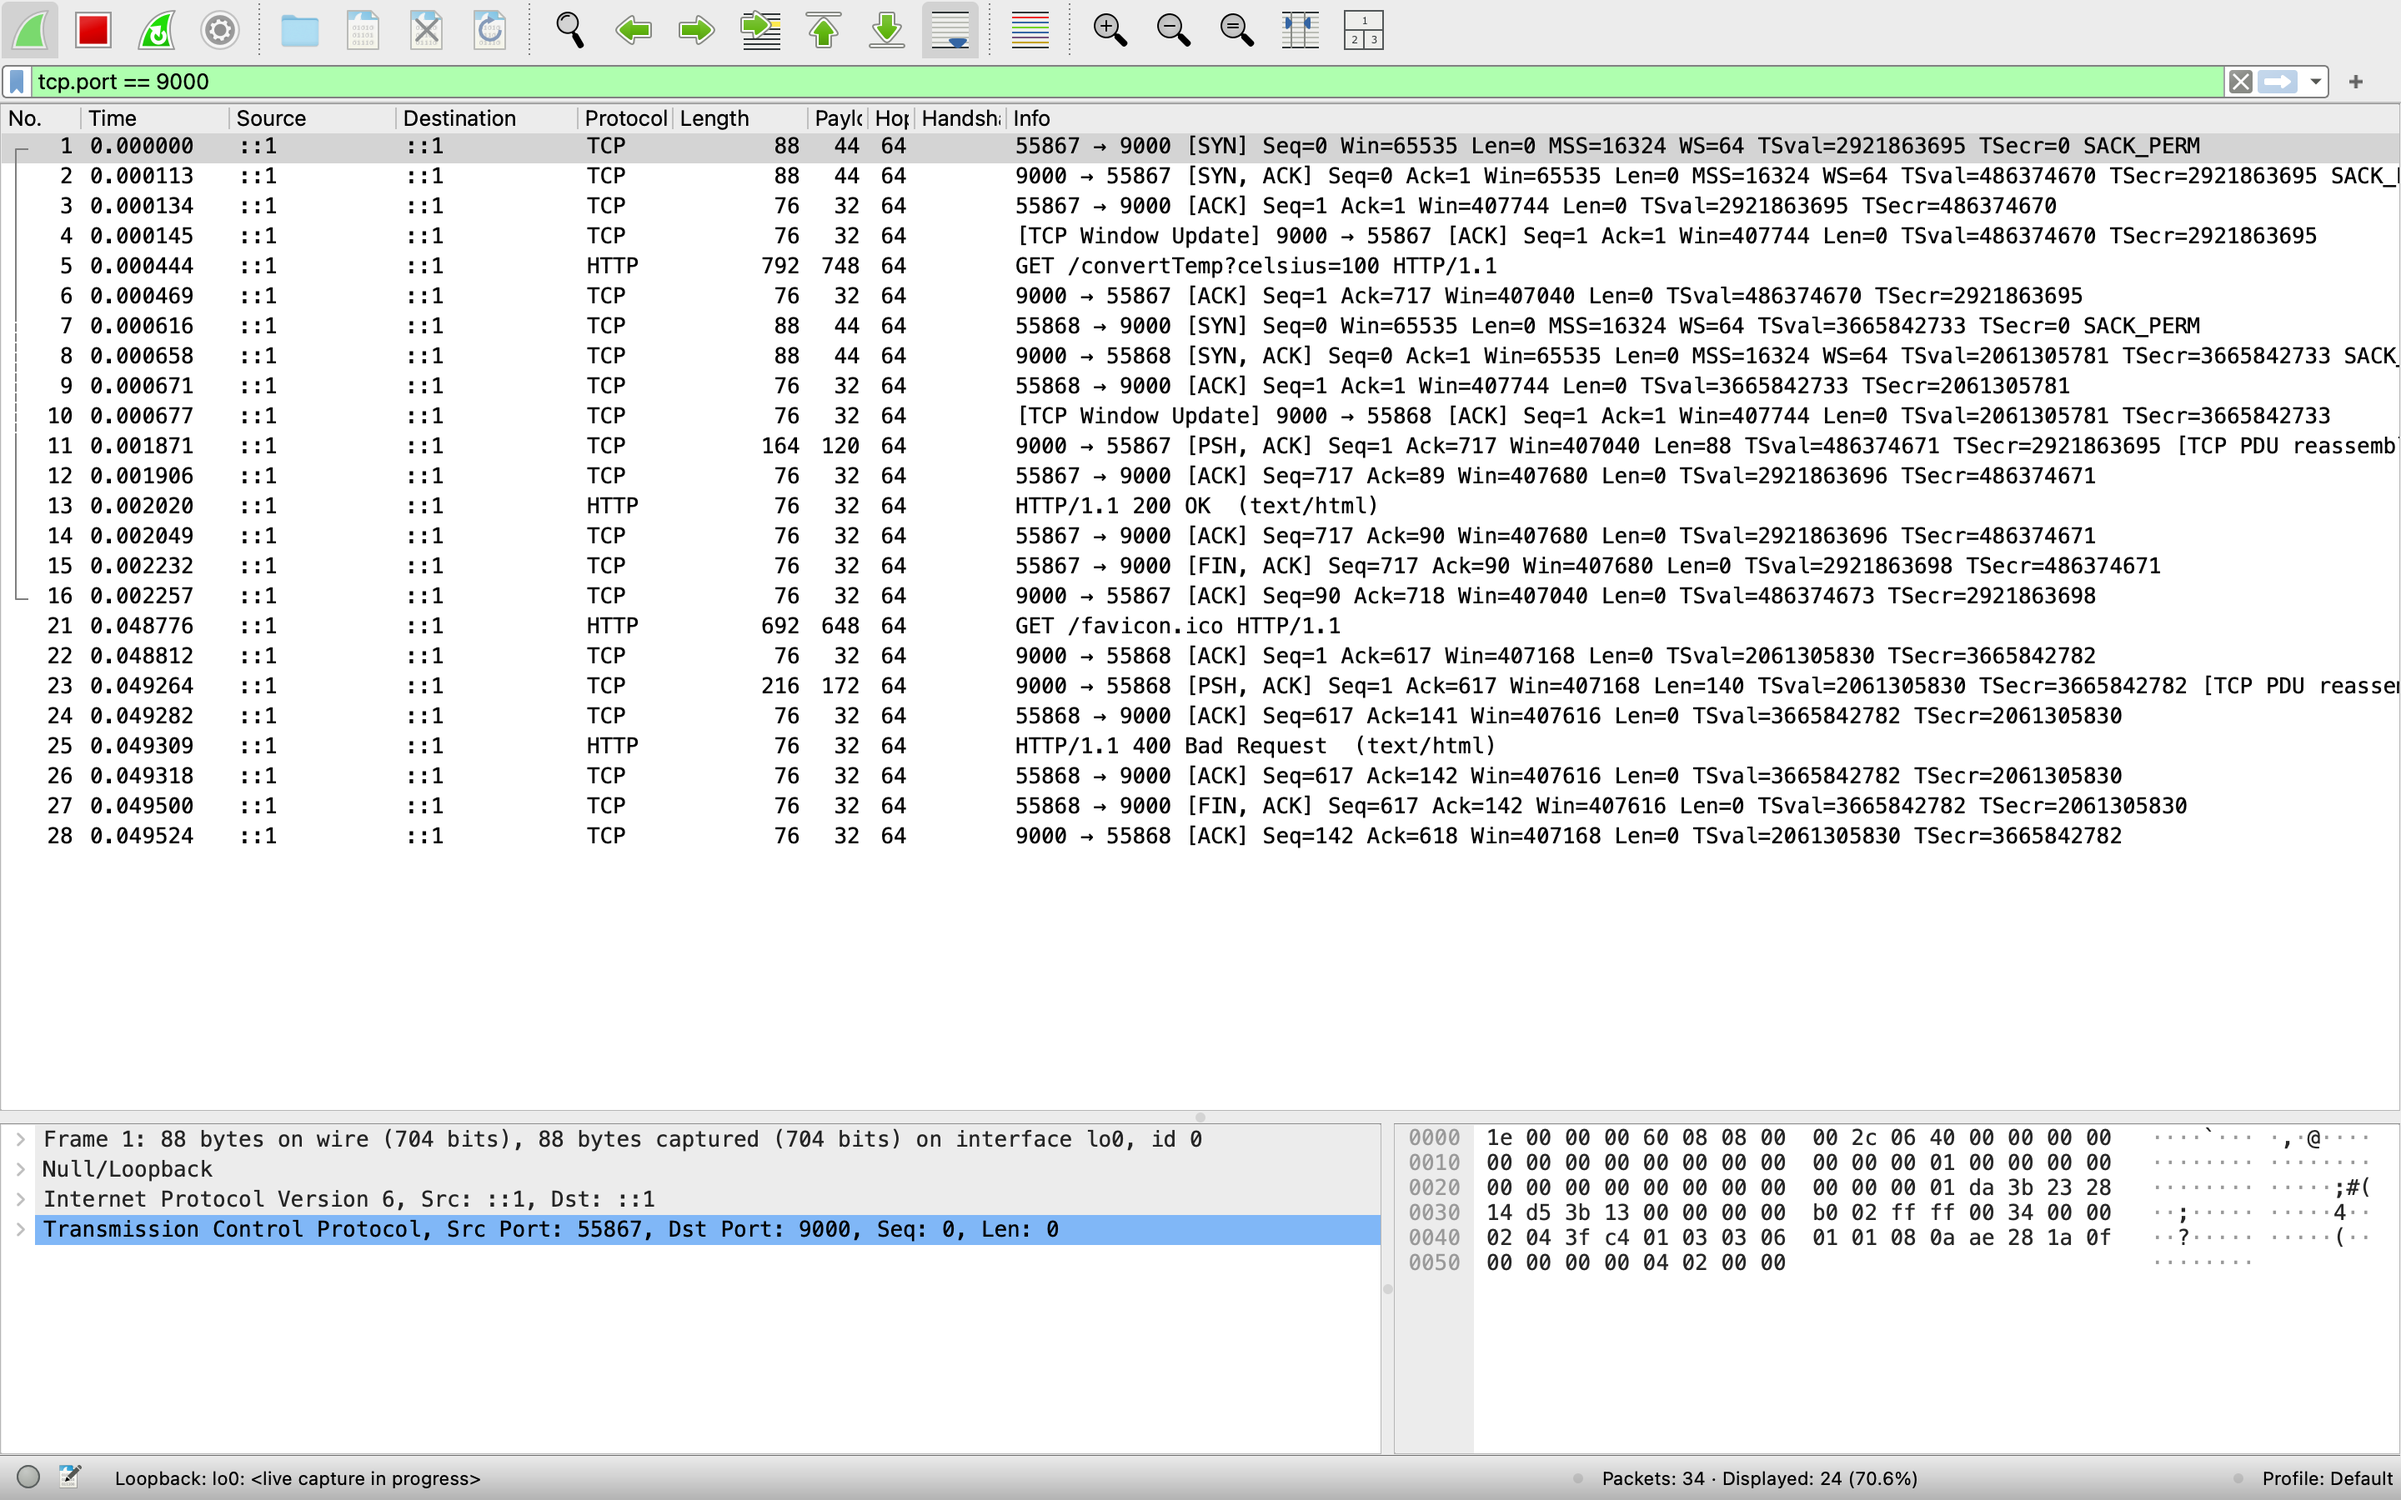
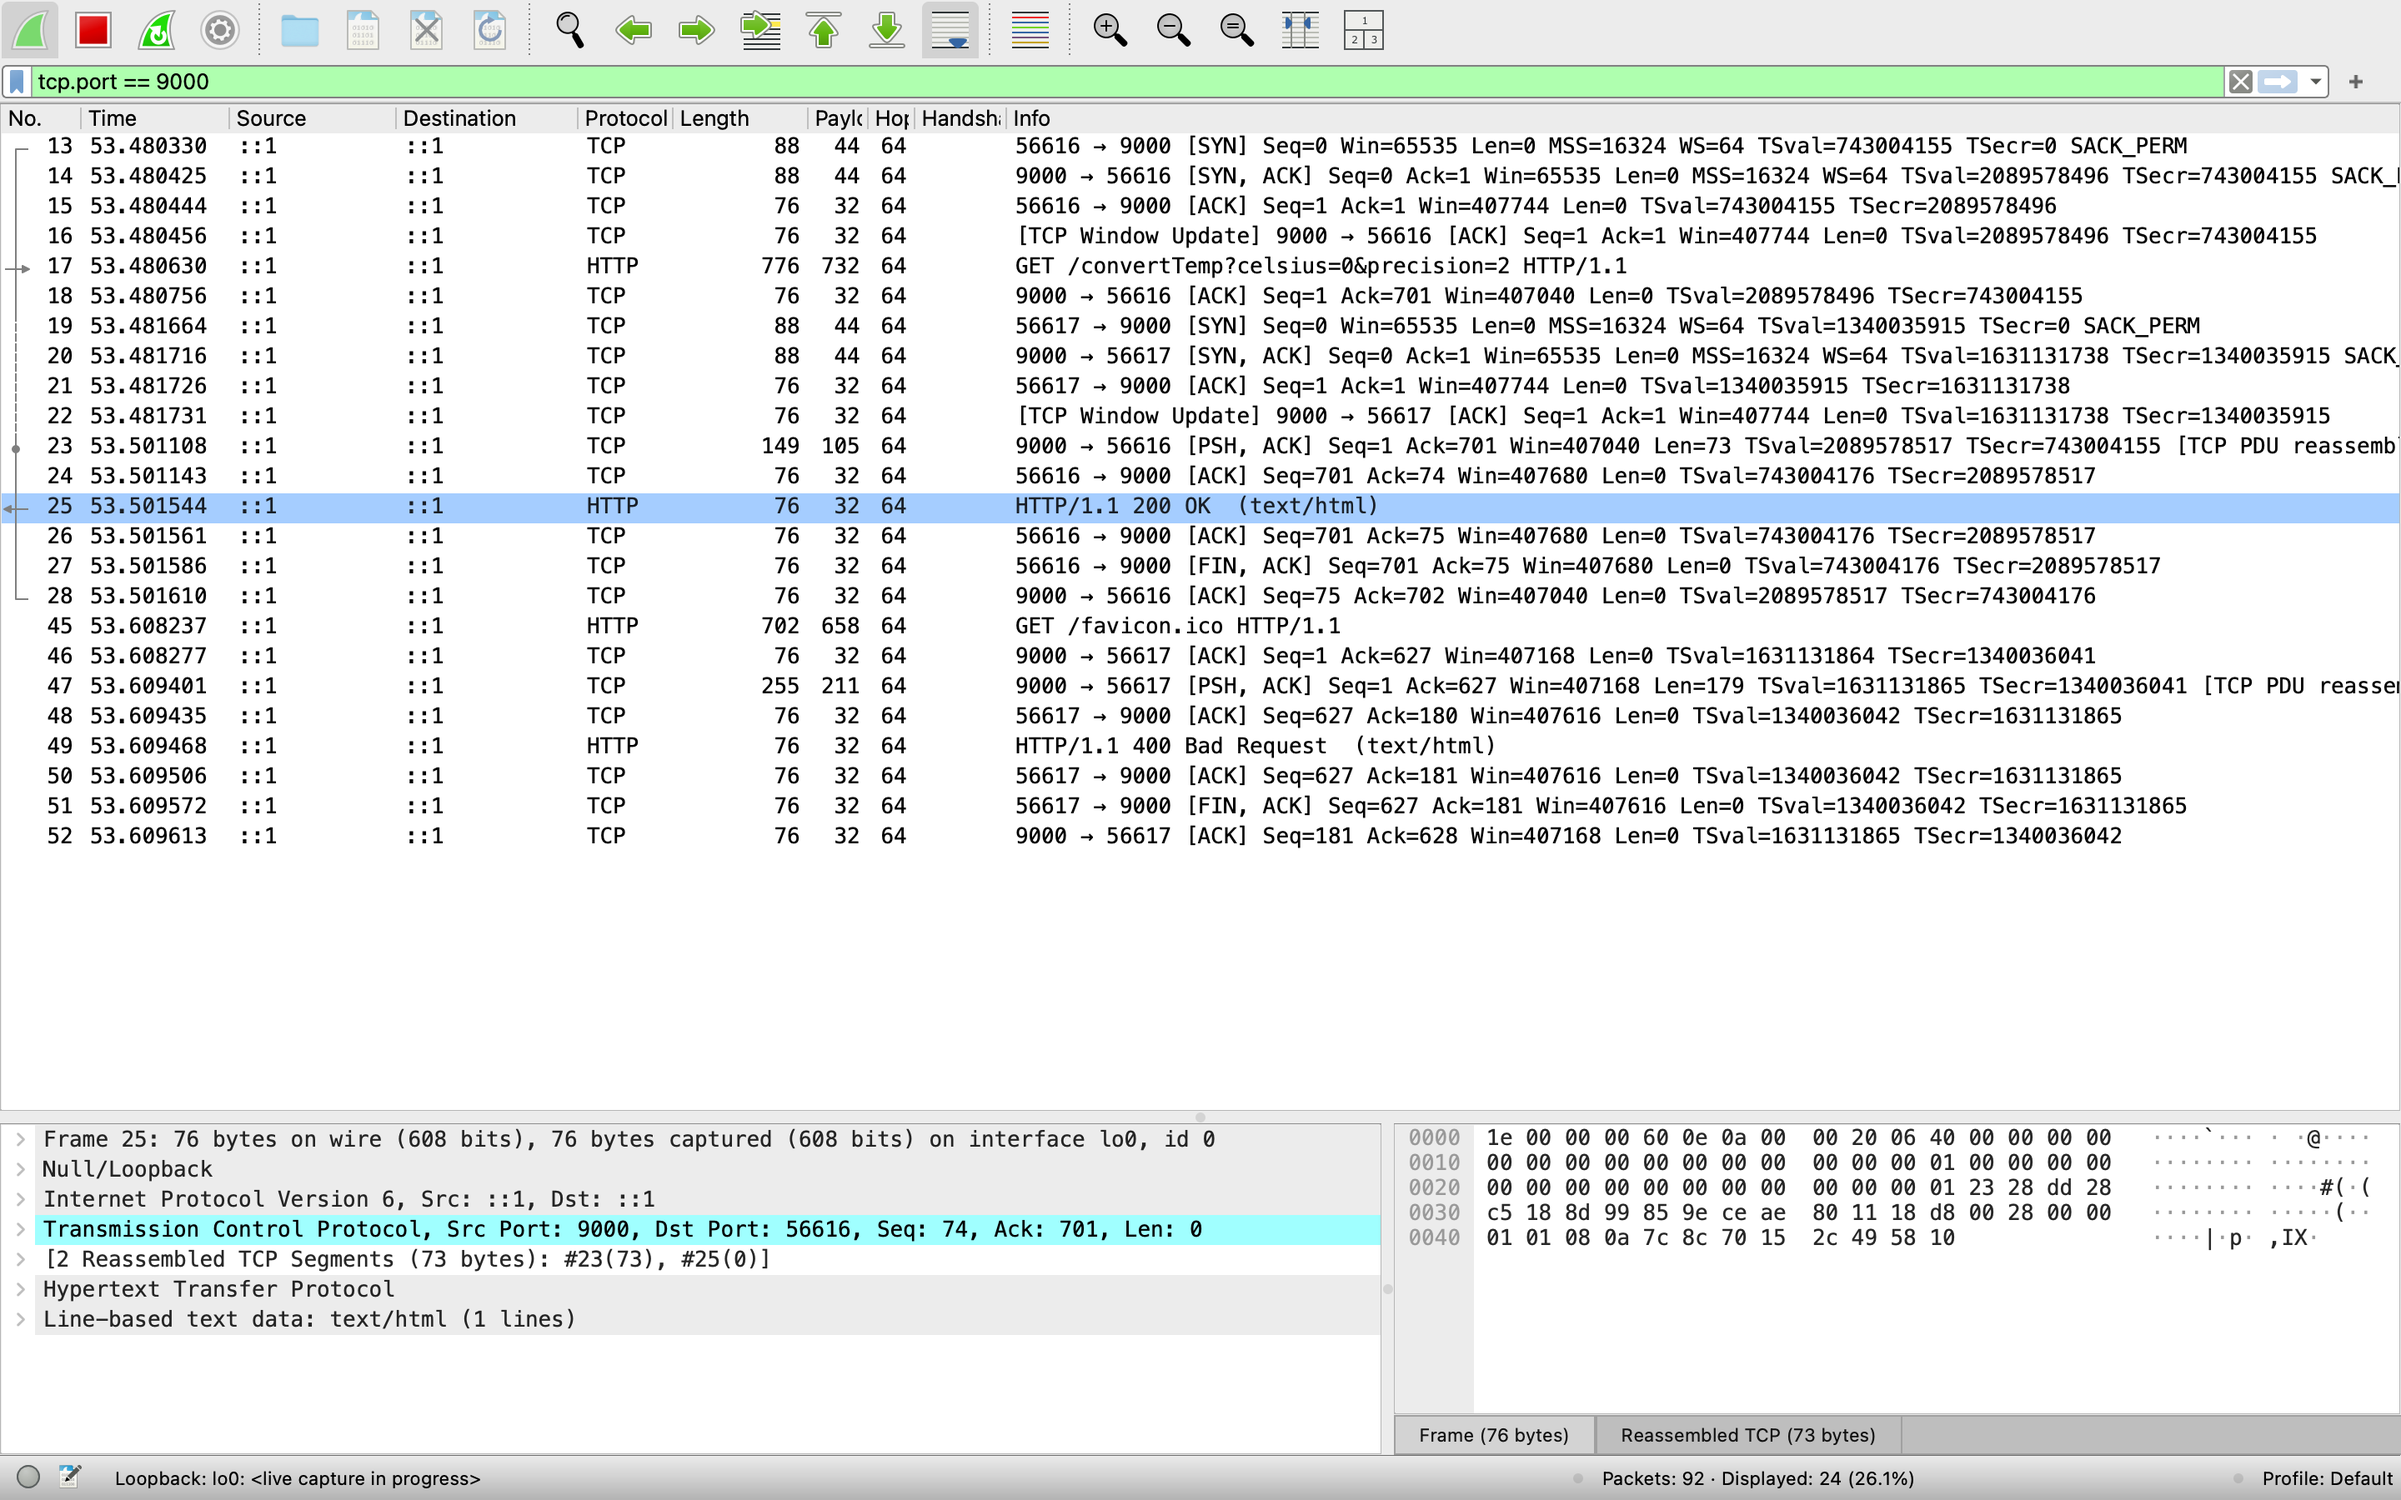
added new temp coversion to satisfy 2 parameter requirement

diff --git a/Assignment2/Assignment2.md b/Assignment2/Assignment2.md
@@ -409,39 +409,82 @@ The web server is designed to handle a wide range of inputs robustly, ensuring i
 
 #### 2. Temperature Conversion
 **Endpoint**: `/convertTemp`  
-**Description**: Converts a temperature from Celsius to Fahrenheit.  
-**Parameters**:
-- `celsius` (numeric, required)
 
-**Test Cases**:
-1. **Valid Input**  
-   - **URL**: `http://localhost:9000/convertTemp?celsius=100`  
-   - **Expected Output**:  
-     - **Browser**: `200 OK`, Output: `100.0°C = 212.0°F`  
-     - **Wireshark**: Confirmed `200 OK` with payload.
-   - **Screenshot**:  
-     - ![Temperature Valid](screenshots2/tvaild.png)  
-     - ![Wireshark Valid](screenshots2/twireshark200.png)
+### Description
 
-2. **Missing Parameter**  
-   - **URL**: `http://localhost:9000/convertTemp`  
-   - **Expected Output**:  
-     - **Browser**: `400 Bad Request`, Error: `I am not sure what you want me to do...`  
-     - **Wireshark**: Confirmed `400 Bad Request`.
-   - **Screenshot**:  
-     - ![Temperature Missing](screenshots2/t400.png)  
-     - ![Wireshark Missing](screenshots2/twireshark400.png)
+The `/convertTemp` endpoint converts a specified temperature from Celsius to Fahrenheit. Users can define the precision of the output by specifying the number of decimal places. This functionality is useful for applications requiring temperature conversions with varying degrees of accuracy.
 
-3. **Invalid Parameter**  
-   - **URL**: `http://localhost:9000/convertTemp?celsius=abc`  
-   - **Expected Output**:  
-     - **Browser**: `406 Not Acceptable`, Error: `Invalid input: celsius must be a valid number.`  
-     - **Wireshark**: Confirmed `406 Not Acceptable`.
-   - **Screenshot**:  
-     - ![Temperature Invalid](screenshots2/t406.png)  
-     - ![Wireshark Invalid](screenshots2/twireshark406.png)
+### Parameters
 
----
+- `celsius` (required): The temperature in Celsius to be converted.
+- `precision` (optional): The number of decimal places for the Fahrenheit result. Defaults to 2 if not specified.
+
+### Usage
+
+**Example URL:**
+- ``` 
+	http://localhost:9000/convertTemp?celsius=25&precision=2
+   ```
+
+**Expected Output:**
+
+- 25°C = 77.00°F
+
+
+### Error Handling
+
+The server provides appropriate error messages and HTTP status codes for various error scenarios:
+
+1. **Missing `celsius` Parameter:**
+   - **URL:** `http://localhost:9000/convertTemp`
+   - **HTTP Status Code:** `400 Bad Request`
+   - **Response:** `Error: Missing parameter. 'celsius' is required.`
+
+2. **Invalid `celsius` Value:**
+   - **URL:** `http://localhost:9000/convertTemp?celsius=abc&precision=2`
+   - **HTTP Status Code:** `406 Not Acceptable`
+   - **Response:** `Error: Invalid input. 'celsius' must be a valid number.`
+
+3. **Invalid `precision` Value:**
+   - **URL:** `http://localhost:9000/convertTemp?celsius=25&precision=xyz`
+   - **HTTP Status Code:** `406 Not Acceptable`
+   - **Response:** `Error: Invalid input. 'precision' must be a non-negative integer.`
+
+4. **Negative `precision` Value:**
+   - **URL:** `http://localhost:9000/convertTemp?celsius=25&precision=-1`
+   - **HTTP Status Code:** `200 OK`
+   - **Response:** `25°C = 77.00°F` (Defaults to 2 decimal places)
+
+### Test Cases and Screenshots
+
+Below are the test cases along with their corresponding screenshots:
+
+1. **Missing `celsius` Parameter:**
+   - **URL:** `http://localhost:9000/convertTemp`
+   - **HTTP Status Code:** `400 Bad Request`
+   - **Wireshark**: Confirmed `400 Bad Request`.
+   - **Response:** `Error: Missing parameter. 'celsius' is required.`
+   - **Screenshot:**
+   ![Missing Celsius Parameter](screenshots2/t400.png)
+   ![Missing Parameter Wireshark](screenshots2/twireshark400.png)
+
+2. **Invalid `celsius` Value:**
+   - **URL:** `http://localhost:9000/convertTemp?celsius=abc&precision=2`
+   - **HTTP Status Code:** `406 Not Acceptable`
+   - **Response:** `Error: Invalid input. 'celsius' must be a valid number.`
+   - **Wireshark**: Confirmed `406 Not Acceptable`.
+   - **Screenshot:**
+   ![Invalid Celsius Value](screenshots2/t406.png)
+   ![Invalid Celsius Wireshark](screenshots2/twireshark406.png)
+
+3. **Valid Conversion with Specified Precision:**
+   - **URL:** `http://localhost:9000/convertTemp?celsius=0&precision=2`
+   - **Expected Output:** `0.0°C = 32.00°F`
+   - **Wireshark**: Confirmed `200 OK` with payload. 
+   - **Screenshot:**
+   ![Valid Conversion with Precision](screenshots2/tvaild.png)
+   ![Valid Wireshark Capture](screenshots2/twireshark200.png)
+
 
 ### Summary of Work Completed
 1. Added two new request types:
